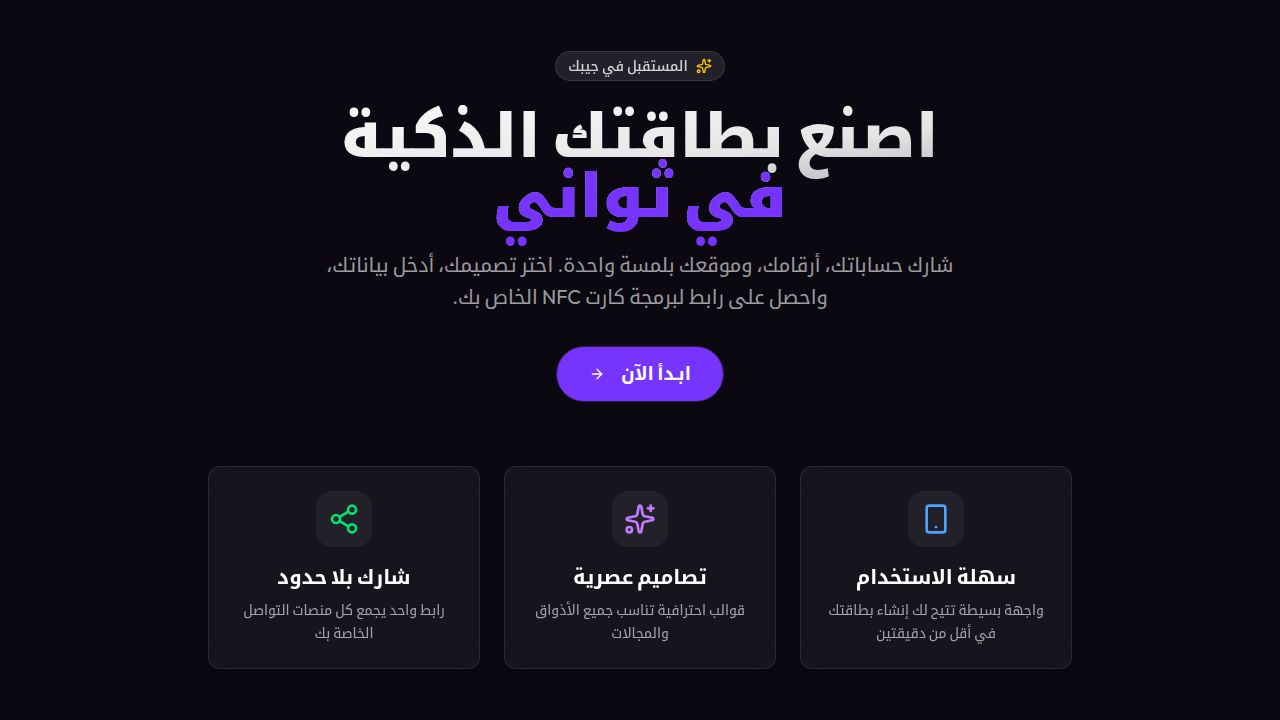
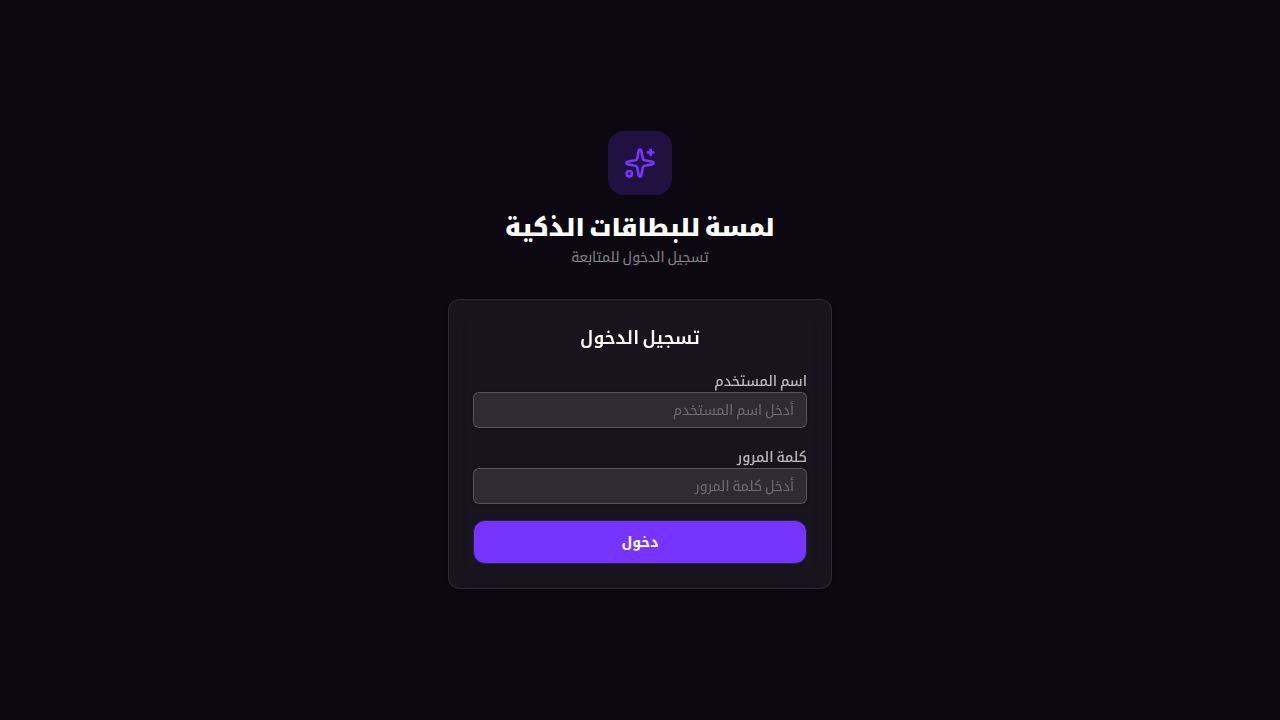
Add ability to write link to NFC cards directly from browser
Integrates Web NFC API to allow users to write the generated card link to an NFC tag. Includes UI elements for status indication and error handling, with support for Android Chrome.

Replit-Commit-Author: Agent
Replit-Commit-Session-Id: f369a4ca-0473-4836-8222-9ecf7dcaf594
Replit-Commit-Checkpoint-Type: full_checkpoint
Replit-Commit-Event-Id: ce8ae5a4-6554-4a6c-ae86-ef0961385c34
Replit-Commit-Screenshot-Url: https://storage.googleapis.com/screenshot-production-us-central1/a9e46423-fdf5-4fbb-a631-39326bd7bf47/f369a4ca-0473-4836-8222-9ecf7dcaf594/BMtIxQO
Replit-Helium-Checkpoint-Created: true

diff --git a/client/src/pages/preview.tsx b/client/src/pages/preview.tsx
@@ -1,9 +1,9 @@
 import { motion } from "framer-motion";
-import { ExternalLink, Sparkles, QrCode, Share2, Copy, Check } from "lucide-react";
+import { ExternalLink, Sparkles, QrCode, Share2, Copy, Check, Wifi, WifiOff, Loader2, X } from "lucide-react";
 import { useProfile, SocialLink, ProfileData } from "@/lib/store";
 import { useLocation } from "wouter";
 import { Button } from "@/components/ui/button";
-import { useEffect, useState } from "react";
+import { useEffect, useState, useRef } from "react";
 import { decodeProfileData, encodeProfileData } from "@/lib/utils";
 import { useToast } from "@/hooks/use-toast";
 
@@ -12,7 +12,13 @@ export default function Preview() {
   const [location] = useLocation();
   const { toast } = useToast();
   const [copied, setCopied] = useState(false);
-  
+
+  // NFC states
+  type NfcStatus = 'idle' | 'waiting' | 'writing' | 'success' | 'error' | 'unsupported';
+  const [nfcStatus, setNfcStatus] = useState<NfcStatus>('idle');
+  const [nfcMessage, setNfcMessage] = useState('');
+  const nfcAbortRef = useRef<AbortController | null>(null);
+
   // Check if embedded mode from URL params
   const isEmbedded = typeof window !== 'undefined' && new URLSearchParams(window.location.search).get('embedded') === 'true';
 
@@ -28,12 +34,16 @@ export default function Preview() {
     }
   }, []);
 
-  const handleShare = () => {
+  const getShareUrl = () => {
     const encoded = encodeProfileData(profile);
     const baseUrl = profile.customDomain && profile.customDomain.trim() !== '' 
       ? profile.customDomain.replace(/\/$/, '') 
       : window.location.origin;
-    const url = `${baseUrl}/preview?data=${encoded}&embedded=true`;
+    return `${baseUrl}/preview?data=${encoded}&embedded=true`;
+  };
+
+  const handleShare = () => {
+    const url = getShareUrl();
     navigator.clipboard.writeText(url);
     setCopied(true);
     toast({
@@ -41,6 +51,51 @@ export default function Preview() {
       description: "يمكنك الآن مشاركة هذا الرابط أو ربطه ببطاقة NFC.",
     });
     setTimeout(() => setCopied(false), 2000);
+  };
+
+  const handleNfcWrite = async () => {
+    if (!('NDEFReader' in window)) {
+      setNfcStatus('unsupported');
+      setNfcMessage('جهازك لا يدعم NFC أو المتصفح لا يدعمه. استخدم Chrome على Android.');
+      return;
+    }
+
+    const url = getShareUrl();
+
+    try {
+      setNfcStatus('waiting');
+      setNfcMessage('قرّب الكارت من موبايلك...');
+
+      const abort = new AbortController();
+      nfcAbortRef.current = abort;
+
+      // @ts-ignore - Web NFC API
+      const ndef = new NDEFReader();
+      await ndef.write(
+        { records: [{ recordType: 'url', data: url }] },
+        { signal: abort.signal }
+      );
+
+      setNfcStatus('success');
+      setNfcMessage('تم الكتابة على الكارت بنجاح!');
+      toast({ title: "✅ تم!", description: "الكارت جاهز — قرّبه من أي موبايل ليفتح البطاقة." });
+      setTimeout(() => setNfcStatus('idle'), 3000);
+    } catch (err: any) {
+      if (err?.name === 'AbortError') {
+        setNfcStatus('idle');
+        setNfcMessage('');
+      } else {
+        setNfcStatus('error');
+        setNfcMessage(err?.message || 'فشل الكتابة على الكارت');
+        setTimeout(() => setNfcStatus('idle'), 3000);
+      }
+    }
+  };
+
+  const cancelNfc = () => {
+    nfcAbortRef.current?.abort();
+    setNfcStatus('idle');
+    setNfcMessage('');
   };
 
   // Determine styles based on theme
@@ -178,26 +233,76 @@ export default function Preview() {
 
   return (
     <div className={`min-h-screen w-full flex flex-col items-center justify-center p-4 ${theme.container}`}>
-      {/* If not embedded, show a "Get NFC" banner at top */}
+      {/* If not embedded, show top action bar */}
       {!isEmbedded && (
-        <div className="fixed top-0 left-0 w-full p-4 flex justify-between items-center z-50 bg-black/50 backdrop-blur-md border-b border-white/10">
-          <Button variant="outline" size="sm" onClick={() => window.history.back()}>
-            عودة للتعديل
-          </Button>
-          <div className="flex gap-2">
-            <Button className="gap-2 bg-blue-600 hover:bg-blue-700 text-white" onClick={handleShare}>
-              {copied ? <Check className="w-4 h-4" /> : <Share2 className="w-4 h-4" />}
-              نسخ رابط الكارت
+        <>
+          <div className="fixed top-0 left-0 w-full p-3 flex justify-between items-center z-50 bg-black/60 backdrop-blur-md border-b border-white/10" dir="rtl">
+            <Button variant="outline" size="sm" onClick={() => window.history.back()} className="text-xs">
+              عودة للتعديل
             </Button>
+            <div className="flex gap-2">
+              {/* NFC Write Button */}
+              {nfcStatus === 'waiting' ? (
+                <Button
+                  size="sm"
+                  onClick={cancelNfc}
+                  className="gap-2 bg-orange-600 hover:bg-orange-700 text-white animate-pulse"
+                >
+                  <Loader2 className="w-4 h-4 animate-spin" />
+                  قرّب الكارت...
+                  <X className="w-3 h-3 mr-1" />
+                </Button>
+              ) : nfcStatus === 'success' ? (
+                <Button size="sm" className="gap-2 bg-green-600 text-white cursor-default">
+                  <Check className="w-4 h-4" />
+                  تم الكتابة!
+                </Button>
+              ) : nfcStatus === 'error' || nfcStatus === 'unsupported' ? (
+                <Button size="sm" onClick={handleNfcWrite} className="gap-2 bg-red-600 hover:bg-red-700 text-white">
+                  <WifiOff className="w-4 h-4" />
+                  فشل — أعد المحاولة
+                </Button>
+              ) : (
+                <Button
+                  size="sm"
+                  onClick={handleNfcWrite}
+                  data-testid="button-nfc-write"
+                  className="gap-2 bg-purple-700 hover:bg-purple-600 text-white"
+                >
+                  <Wifi className="w-4 h-4" />
+                  اكتب على الكارت
+                </Button>
+              )}
+
+              {/* Copy Link Button */}
+              <Button size="sm" className="gap-2 bg-blue-600 hover:bg-blue-700 text-white" onClick={handleShare}>
+                {copied ? <Check className="w-4 h-4" /> : <Share2 className="w-4 h-4" />}
+                نسخ الرابط
+              </Button>
+            </div>
           </div>
-        </div>
+
+          {/* NFC Status Banner */}
+          {(nfcStatus === 'waiting' || nfcStatus === 'error' || nfcStatus === 'unsupported') && (
+            <div
+              className={`fixed top-[60px] left-0 w-full py-2 px-4 text-center text-sm z-40 ${
+                nfcStatus === 'waiting'
+                  ? 'bg-orange-900/80 text-orange-200'
+                  : 'bg-red-900/80 text-red-200'
+              }`}
+              dir="rtl"
+            >
+              {nfcMessage}
+            </div>
+          )}
+        </>
       )}
 
       <motion.main 
         initial={{ opacity: 0, scale: 0.95, y: 20 }}
         animate={{ opacity: 1, scale: 1, y: 0 }}
         transition={{ duration: 0.5 }}
-        className={`w-full max-w-md rounded-[2.5rem] p-6 md:p-8 relative overflow-hidden ${theme.card} ${!isEmbedded ? 'mt-16' : ''}`}
+        className={`w-full max-w-md rounded-[2.5rem] p-6 md:p-8 relative overflow-hidden ${theme.card} ${!isEmbedded ? (nfcStatus === 'waiting' || nfcStatus === 'error' || nfcStatus === 'unsupported' ? 'mt-24' : 'mt-16') : ''}`}
       >
         {/* Background blobs for glass theme - customized for the screenshot look */}
         {profile.theme === 'glass' && (
